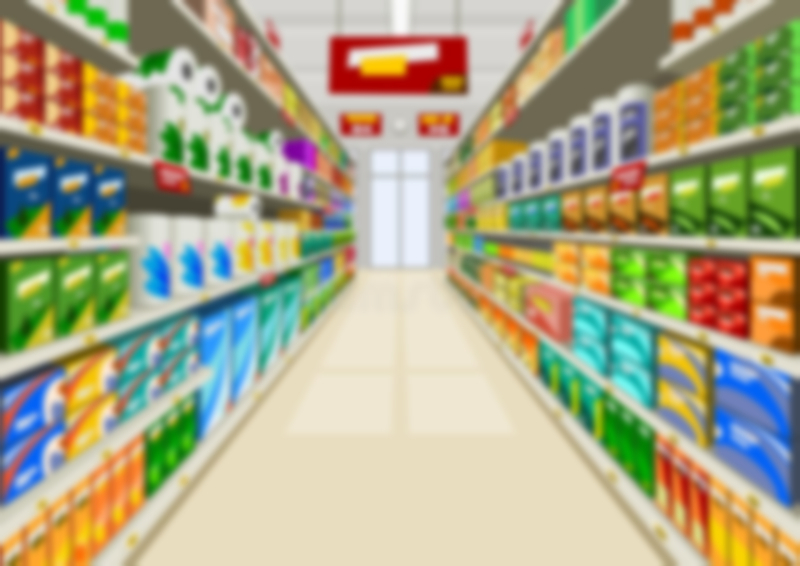
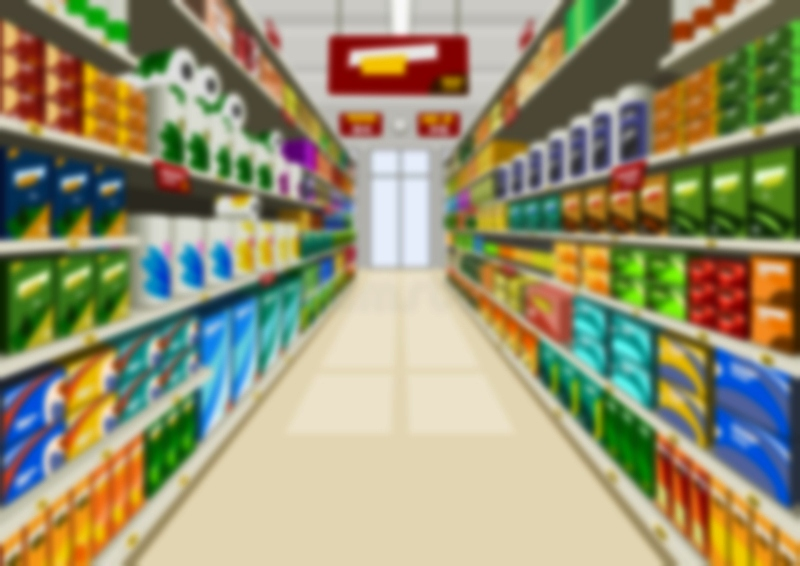
cargar fondo

diff --git a/src/pages/main/home/home.scss b/src/pages/main/home/home.scss
@@ -9,7 +9,7 @@ page-home {
     background-size: cover;
     background-repeat: no-repeat;
     background-color: #dddddd;
-    background-image: url(../../../assets/supermarket.jpg);
+    background-image: url(../../../assets/supermarket2.jpg);
   }
   .select-box {
     padding-top: 50px;
@@ -35,8 +35,8 @@ page-home {
   }
 
   .last-connect-text {
-    color: #dfdfdf;
-    text-shadow: 2px 2px 2px #333333;
+    color: #ebebeb;
+    text-shadow: 2px 2px 4px #000000;
   }
 
 }
